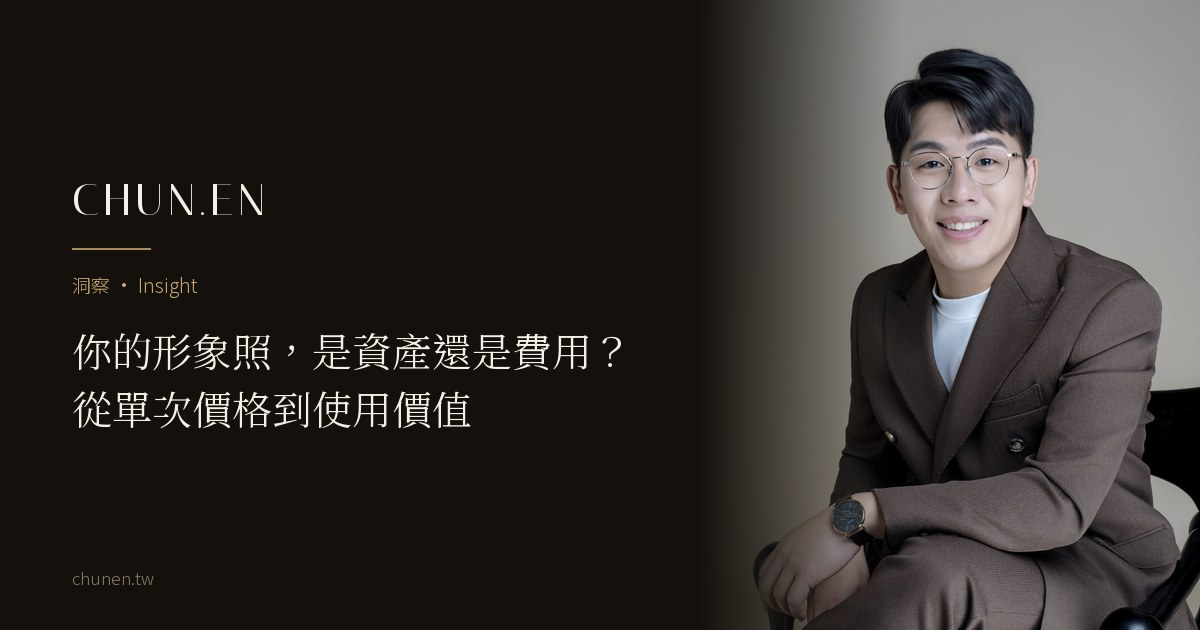
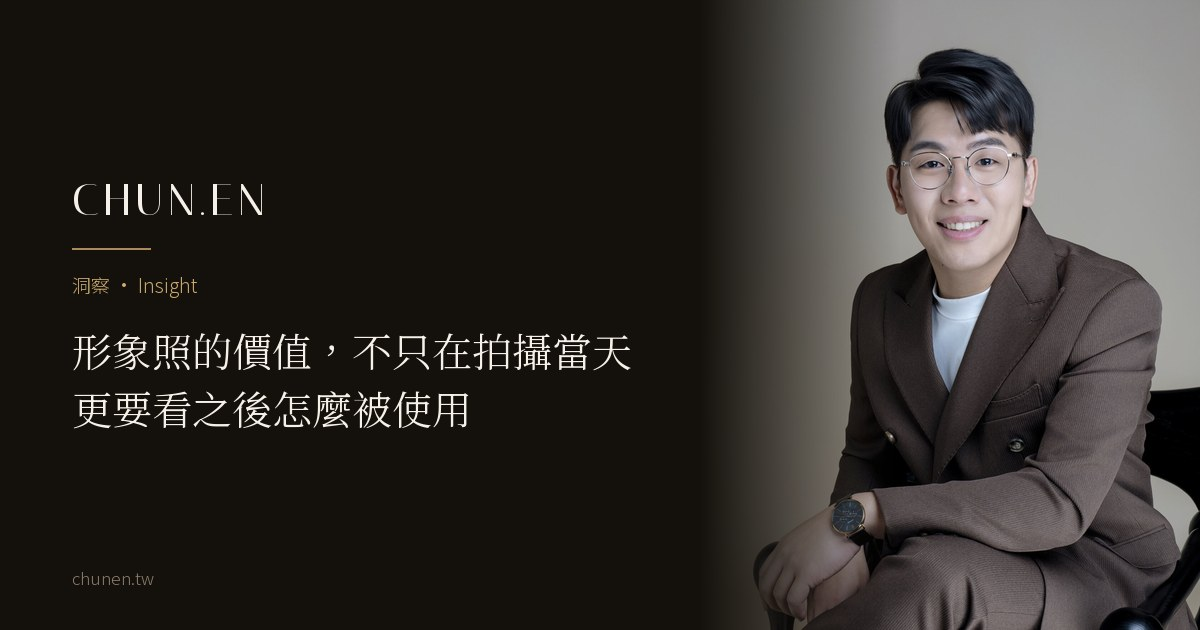
content(journal): image-asset 改寫成使用價值框架（user 版開場＋混合版全文）
資產／費用框架退場。它撐不住的證據是連補三輪：刪攤提、加「這是比喻不是
會計科目」聲明、換算法改換角度、標題補「照」字。換框架之後那些補丁全部
不需要存在。

H1「形象照的價值，不只在拍攝當天／更要看之後怎麼被使用」（title／og／
twitter／Article／Breadcrumb＋兩篇錨文字＋og 卡同步）。

採納 user 改寫版：開場四段（平台名從條件句移到例子裡）、使用期限改六項
落差清單、新增「價格差異來自服務範圍不同」整節（接 why-prices-differ）、
新增 FAQ「拍得越多張會比較值得嗎」、收尾四問。

保留現行版：Tom Peters 具名引用（接語改「門面」不再推導成資產）、使用
位置表格的觀點欄位、金句 blockquote（重寫一句承接新框架）。

避開重疊：不收「同一張照片不一定適合所有地方」整節與「不同平台要不要用
同一張」FAQ，兩者都是 portrait-deployment-map 的地盤，改以內鏈帶過。

FAQ 3→4 題、schema 同步逐題比對、dateModified 07-18→08-12、
字數 4070→4944、閱讀 5→7 分鐘。

Changed region(s): [[0.0617, 0.5127, 0.5242, 0.6937]]

diff --git a/journal/image-asset-or-expense.html b/journal/image-asset-or-expense.html
@@ -4,15 +4,15 @@
   <meta charset="UTF-8" />
   <meta name="viewport" content="width=device-width, initial-scale=1.0, viewport-fit=cover" />
   <meta name="robots" content="noindex" /><!-- 草稿：Kay 審核後移除此行＋掛列表頁＋入 sitemap -->
-  <title>你的形象照，是資產還是費用？從單次價格到使用價值｜CHUN.EN 觀點</title>
-  <meta name="description" content="一組形象照值不值得，不只看拍攝當天的價格。從官網、名片、提案與媒體這些實際用得到的位置，重新評估一組照片的使用範圍、更新時機，以及什麼情況下它其實是閒置的。" />
+  <title>形象照的價值，不只在拍攝當天：更要看之後怎麼被使用｜CHUN.EN 觀點</title>
+  <meta name="description" content="一組形象照值不值得，不只看拍攝當天的價格。從官網、LinkedIn、簡報與媒體這些實際用得到的位置，談照片的使用期限怎麼判斷、價格差異來自哪裡，以及怎麼提高一組照片的實際使用價值。" />
   <meta name="theme-color" content="#14100B" />
   <link rel="icon" href="/favicon.ico" sizes="48x48" />
   <link rel="icon" href="/favicon-32.png" type="image/png" sizes="32x32" />
   <link rel="apple-touch-icon" href="/apple-touch-icon.png" />
   <link rel="canonical" href="https://chunen.tw/journal/image-asset-or-expense.html" />
-  <meta property="og:title" content="你的形象照，是資產還是費用？從單次價格到使用價值" />
-  <meta property="og:description" content="費用思維問「這次要花多少」；資產思維問「它之後派得上多少用場」。" />
+  <meta property="og:title" content="形象照的價值，不只在拍攝當天：更要看之後怎麼被使用" />
+  <meta property="og:description" content="一組照片值不值得，不在交付了幾張，在需要它的時候，手上有沒有適合的那一張。" />
   <meta property="og:image" content="https://chunen.tw/assets/og/image-asset-or-expense-og.jpg" />
   <meta property="og:image:width" content="1200" />
   <meta property="og:image:height" content="630" />
@@ -20,8 +20,8 @@
   <meta property="og:type" content="article" />
   <meta property="og:locale" content="zh_TW" />
   <meta name="twitter:card" content="summary_large_image" />
-  <meta name="twitter:title" content="你的形象照，是資產還是費用？從單次價格到使用價值" />
-  <meta name="twitter:description" content="費用思維問「這次要花多少」；資產思維問「它之後派得上多少用場」。" />
+  <meta name="twitter:title" content="形象照的價值，不只在拍攝當天：更要看之後怎麼被使用" />
+  <meta name="twitter:description" content="一組照片值不值得，不在交付了幾張，在需要它的時候，手上有沒有適合的那一張。" />
   <meta name="twitter:image" content="https://chunen.tw/assets/og/image-asset-or-expense-og.jpg" />
   <link rel="preconnect" href="https://fonts.googleapis.com" />
   <link rel="preconnect" href="https://fonts.gstatic.com" crossorigin />
@@ -70,8 +70,8 @@
     <header style="padding: clamp(9rem, 16vh, 11rem) 0 clamp(2rem, 4vh, 3rem);">
       <div class="wrap article-wrap">
         <p class="hero-eyebrow rv">洞察 · Insight</p>
-        <h1 class="rv rv-d1" style="font-weight: 300; font-size: clamp(1.9rem, 4.4vw, 3.2rem); line-height: 1.4; margin-top: 1rem;"><span style="white-space:nowrap;">你的形象照，</span><span style="white-space:nowrap;">是資產還是費用？</span><br>從單次價格到<em style="font-style:normal;color:var(--gold-light);">使用價值</em></h1>
-        <p class="article-meta rv rv-d2">CHUN.EN 觀點 · 2026 · 閱讀約 5 分鐘</p>
+        <h1 class="rv rv-d1" style="font-weight: 300; font-size: clamp(1.9rem, 4.4vw, 3.2rem); line-height: 1.4; margin-top: 1rem;"><span style="white-space:nowrap;">形象照的價值，</span><span style="white-space:nowrap;">不只在拍攝當天</span><br><span style="white-space:nowrap;">更要看之後<em style="font-style:normal;color:var(--gold-light);">怎麼被使用</em></span></h1>
+        <p class="article-meta rv rv-d2">CHUN.EN 觀點 · 2026 · 閱讀約 7 分鐘</p>
       </div>
     </header>
 
@@ -83,26 +83,27 @@
       <div class="keypoints rv">
         <p class="kp-t">In This Article · 本文重點</p>
         <ul>
-          <li>費用思維問「這次要花多少」；資產思維問「它之後派得上多少用場」</li>
-          <li>與其算每天幾塊，先看它能不能重複進入官網、社群、簡報與媒體</li>
-          <li>最貴的不是拍貴的，是拍了不敢用的，閒置資產才是真正的浪費</li>
+          <li>評估一組形象照，不只看拍攝當天花多少，也要看它之後會被用在哪裡</li>
+          <li>照片沒有固定使用年限，真正要看的是它和現在的你、現在的工作有沒有落差</li>
+          <li>需要照片的時候，手上有沒有一張適合的版本，比交付幾張更重要</li>
         </ul>
       </div>
 
       <div class="article-body rv">
-        <p class="article-lead">「拍一組形象照，多少錢才合理？」</p>
-        <p>大多數人都從價格開始評估，這很合理。但同樣一組照片，有人拍完只換了一次頭像，也有人接下來幾年一直在用：官網、名片、提案、媒體上都是它。花的錢一樣，用出來的價值差很多。</p>
-        <p>所以這篇想換一種算法：不只問「這次要花多少」，也問「它之後派得上多少用場」。這裡的「資產」是個比喻，說的是你怎麼看待這組照片，不是會計帳上的科目。</p>
+        <p class="article-lead">「拍一組形象照，大概要花多少錢？」</p>
+        <p>這通常是大家最先問的問題。</p>
+        <p>但照片拍完之後，真正影響使用的，往往不是當初花了多少，而是之後每一次需要用照片時，手上有沒有適合的版本。</p>
+        <p>同樣一組照片，有的人拍完只換了頭像；有的人之後做官網、簡報、媒體、講師介紹時，都能直接找到適合的照片使用。<strong>差別不在用了幾次，而是這組照片有沒有跟上真正的使用需求。</strong></p>
 
         <h2>個人品牌是一門<em>老生意</em></h2>
         <p>「把自己當品牌經營」不是社群時代的新發明。管理學者 Tom Peters 早在 1997 年就於《Fast Company》發表〈The Brand Called You〉（<a href="https://www.fastcompany.com/28905/brand-called-you" target="_blank" rel="noopener">原文連結</a>），主張每個專業工作者其實都是「自己這家公司」的執行長，重要的是讓自己「被指名」而不是被取代。</p>
-        <p>把這個視角接回來：如果你是「你自己」這家公司的 CEO，那你的對外形象就是這家公司的門面。門面值不值得，要看它接下來被放在哪些位置、還能用多久，而不只是單次開銷。</p>
+        <p>把這個視角接回來：你的對外形象，就是這家公司的門面。門面值不值得，不在裝修那天花了多少，在它之後被多少人看見、又撐得住多久。</p>
 
-        <h2>與其算每天幾塊，先看它<em>能不能重複使用</em></h2>
-        <p>資產的價值不在購入價，在使用率。試著把你的形象照攤在這張表上看：</p>
+        <h2>真正值得看的，是照片<em>之後怎麼被使用</em></h2>
+        <p>形象照不是「拍完、交件」就結束。它會在很長一段時間裡，陸續出現在不同地方。</p>
         <div class="tbl-scroll">
         <table>
-          <thead><tr><th>部署位置</th><th>工作頻率</th><th>它替你做的事</th></tr></thead>
+          <thead><tr><th>使用位置</th><th>出現頻率</th><th>它替你做的事</th></tr></thead>
           <tbody>
             <tr><td>官網／關於我</td><td>每一次被 Google 的時刻</td><td>讓第一次搜尋到你的人，知道你是誰</td></tr>
             <tr><td>LinkedIn／社群</td><td>每天，被動曝光</td><td>讓不同平台看到的是同一個人</td></tr>
@@ -112,37 +113,56 @@
           </tbody>
         </table>
         </div>
-        <p>照片沒有固定的有效期限。我們的建議是每年快速檢視一次、兩到三年做一次完整檢查（見〈<a href="when-to-update-your-portrait.html">形象照多久該更新一次</a>〉），但要不要換，看的是落差，不是年份。所以與其把總價除以天數，<strong>更實際的是逐一問：官網人物頁有沒有能用的？LinkedIn 與公司資料適合嗎？簡報與媒體要的橫直版本在不在？需要更新的時候，是補一兩張就夠，還是角色已經整個不一樣了？</strong>這幾題的答案，比每天幾塊錢更能說明一組照片值不值得。</p>
-        <blockquote>費用思維問「這次要花多少」；資產思維問「它之後派得上多少用場」。</blockquote>
+        <p>所以一組照片值不值得，不只看交付了幾張。更實際的問題是：需要用的時候，它有沒有真的派上用場？</p>
+        <blockquote>一組照片值不值得，不在交付了幾張，在需要它的時候，手上有沒有適合的那一張。</blockquote>
 
-        <h2>最貴的照片，是<em>拍了不敢用的</em>那組</h2>
-        <p>反過來看，最不划算的不是貴的方案，是「便宜但閒置」的那組：拍完覺得不像自己、不敢放上官網、提案時還是塞舊照，購入價再低，使用率是零，等於什麼都沒有換到。這就是閒置資產。</p>
-        <p>而照片會閒置，原因不只一種：用途沒先盤點、構圖不適合版位、服裝方向不對、成品不像本人，也可能只是工作角色後來改變了。其中最難靠事後補救的一種，是<a href="positioning-decides-portrait.html">定位缺席</a>：沒想清楚要讓誰看見、以什麼角色，拍出來自然「好看但用不上」。這也解釋了<a href="why-prices-differ.html">價格差十倍的形象照差在哪</a>：差異多半來自服務範圍，從快門之前的定位工作，到交付之後<a href="after-the-shoot.html">有沒有真的被用起來</a>。</p>
+        <h2>照片沒有<em>固定的使用期限</em></h2>
+        <p>一張形象照可以用多久，沒有統一答案。不是滿兩年就一定要換，也不是拍得好就能永遠用下去。比較實際的判斷方式是看落差：</p>
+        <ul>
+          <li>現在的外型和照片已經差很多</li>
+          <li>職稱或工作內容改變了</li>
+          <li>主要的對外角色和拍攝當時不同</li>
+          <li>原本的服裝和現在的正式程度不一致</li>
+          <li>現在常用的版位，手上的照片已經不適合</li>
+          <li>照片仍然像本人，只是缺少新的使用比例</li>
+        </ul>
+        <p>如果只是少了橫式、留白或某種人物距離，不一定要整組重拍，局部補拍往往就夠了。什麼時候該換整組，〈<a href="when-to-update-your-portrait.html">形象照多久該更新一次</a>〉談得更完整。</p>
+
+        <h2>真正不划算的，是需要照片時<em>找不到合適的版本</em></h2>
+        <p>拍完之後沒有被用上，不一定代表拍攝出了問題。</p>
+        <p>原因可能很多：當初沒有先盤點用途、構圖不適合現在的版位、服裝方向和工作需求有落差、成品不像本人，也可能只是後來的職位與公開角色改變了。其中最難靠事後補救的一種，是拍攝前沒有把主要受眾、角色與用途一起想清楚，那會拍出<a href="positioning-decides-portrait.html">好看但用不上</a>的照片。</p>
+        <p>也有一種更單純的情況：照片本身很好看，但真正要做官網、簡報或媒體資料時，始終找不到一張適合的。</p>
+        <p>所以「照片有沒有被用上」，不該只拿來判斷拍得好不好。它更像一個提醒：下一次拍攝之前，有沒有更清楚的使用需求可以先整理出來？照片為什麼會沒被用上，〈<a href="after-the-shoot.html">拍完形象照之後，為什麼很多照片最後沒有被用上？</a>〉談過四種常見原因。</p>
 
         <figure class="article-fig crop45">
           <img src="../assets/gallery/journal/image-asset-hero-v1-1400.jpg" alt="同一組拍攝中的另一張商務形象照，可用於官網與簡報版位" loading="lazy" />
           <figcaption>真正耐用的照片有一個特徵：過一段時間回頭看，它還像現在的你，也還放得進現在需要的版位。（CHUN.EN 實際拍攝作品）</figcaption>
         </figure>
 
-        <h2>怎麼把這筆投資<em>做成資產</em></h2>
-        <p>三個原則。</p>
-        <p>一、先定位再拍，資產的價值來自「用得上」，而用得上來自想清楚（<a href="../a-voir.html">À Voir</a> 做的就是這件事）。</p>
-        <p>二、先排最重要的版位，官網、社群、提案、媒體各要的版本，在拍攝規劃時就排進去，而不是拍完再將就；暫時用不到的，不必為了湊齊而拍。</p>
-        <p>三、定期盤點，照片和本人出現落差、角色升級時就該<a href="when-to-update-your-portrait.html">更新</a>。</p>
-        <p><strong>換個算法，問題就不只是「要花多少」，而是「它接下來還派得上多少用場」。</strong></p>
+        <h2>價格差異，很多時候來自<em>服務範圍不同</em></h2>
+        <p>形象照的價格差距很大，但比較價格時，只看「幾套服裝、交付幾張」通常不夠。</p>
+        <p>有些服務從拍攝開始，服裝與方向由客戶自己準備；有些會再加入拍攝前的需求確認、妝髮、服裝討論、構圖規劃，以及交件之後的影像應用。</p>
+        <p>這些沒有哪一種一定比較好。真正要先確認的是：<strong>你這次需要的，是完成一組照片，還是需要有人一起把拍攝前後的問題整理清楚？</strong>服務範圍不同，價格自然不同。所以比價之前，先把自己真正需要的內容看清楚，會比只比較張數準確。價差的細節，〈<a href="why-prices-differ.html">價格差十倍的形象照，到底差在哪</a>〉拆得更細。</p>
 
-        <h2>回頭看這組照片，<em>還在被使用嗎？</em></h2>
-        <p>回頭看你現在用的那張照片：它現在掛在哪些地方？還像現在的你嗎？職稱與角色還對嗎？需要放進簡報、媒體或官網的時候，有沒有適合的版本可以直接拿出來？</p>
-        <p>如果答案多半是肯定的，這組照片就還在替你工作；如果多數位置都沒有它的版本，下一次要補的可能不是張數，是規劃。</p>
+        <h2>怎麼提高一組照片的<em>實際使用價值</em></h2>
+        <p>不用先把所有未來需求一次想完，可以先從三件事開始。</p>
+        <p>一、先確認現在真正會用到的位置。列出目前最常用照片的幾個地方，例如官網、LinkedIn、簡報、講師介紹或媒體資料。如果某個平台你根本還沒開始經營，不需要為了「以後可能會用」先把素材拍齊。</p>
+        <p>二、把最重要的那幾個版位講清楚。先確認的版位，就能提早安排需要的構圖。各個平台各要什麼樣的照片，〈<a href="portrait-deployment-map.html">一組照片的部署地圖</a>〉整理成一張表。</p>
+        <p>三、過一段時間，再檢查有沒有落差。不用固定哪一年全部重拍。當外型、職稱、工作角色或主要使用位置明顯改變時，再決定要局部補拍，還是重新整理整組影像。</p>
+
+        <h2>回頭看<em>現在這組照片</em></h2>
+        <p>看看你現在正在用的那幾張。</p>
+        <p>它們出現在哪些地方？還像現在的你嗎？職稱與工作內容還正確嗎？臨時需要做一份簡報、提供媒體資料，或更新官網人物頁的時候，有沒有一張適合的版本可以直接拿出來？</p>
+        <p>如果多數情況都找得到合適的照片，這組影像就仍然有實際的使用價值。如果每次都要重新翻很久、勉強裁切，最後還是回去用舊的那張，那下一次真正要處理的，可能不是多拍幾張，而是先把現在真正需要照片的地方整理清楚。</p>
+        <p><strong>形象照的價值，不只在拍攝當天。更重要的是，之後需要它的時候，它還能不能好好被使用。</strong></p>
 
         <h2>常見<em>問題</em></h2>
         <div class="faq">
-          <details><summary>預算真的有限，怎麼開始？<span class="mark">+</span></summary><div class="a">先縮小這次要處理的範圍：確認目前最常被看見的是哪兩三個位置，例如官網人物頁與 LinkedIn，把這幾個版位的核心照片做好，之後有演講、媒體或其他需求再分階段補拍。小而用得上，勝過大而閒置。</div></details>
-          <details><summary>照片可以用幾年？什麼時候該重拍？<span class="mark">+</span></summary><div class="a">沒有固定年限。建議每年快速檢視一次、兩到三年做一次完整檢查，但那是檢視節奏，不是有效期限。真正的判準是落差：外型改變、角色升級、或照片風格已經跟不上你的市場定位時，就是重拍的訊號。</div></details>
-          <details><summary>公司會補助拍攝嗎？這算誰的資產？<span class="mark">+</span></summary><div class="a">有些企業會把主管與團隊形象列入僱主品牌或行銷預算，可以先向公司確認。至於照片屬於誰，不能只看畫面裡是誰：由公司安排的主管或團隊拍攝，使用範圍、著作權、肖像授權，以及離職之後還能不能繼續使用，都以合約或公司規範為準，建議在拍攝前就問清楚。</div></details>
+          <details><summary>預算有限，形象照可以怎麼開始？<span class="mark">+</span></summary><div class="a">先從目前最常被看見的地方開始。如果現在主要需要的是官網人物頁與 LinkedIn，就先完成這兩個位置需要的核心照片；之後真的出現演講、媒體或其他需求，再分階段補拍。不需要第一次就把所有未來可能用到的素材準備完成。</div></details>
+          <details><summary>形象照可以用幾年？什麼時候需要更新？<span class="mark">+</span></summary><div class="a">沒有固定年限。可以定期看看本人外型、職稱、主要角色、品牌方向，以及常用版位是否已經和照片出現明顯落差。如果只是缺少某些比例，可以局部補拍；如果本人與主要工作角色都已明顯改變，再考慮更新整組。</div></details>
+          <details><summary>拍得越多張，會比較值得嗎？<span class="mark">+</span></summary><div class="a">不一定。如果照片彼此非常接近，增加張數不會增加實際用途。反過來說，張數不多但能處理目前最重要的官網、人物頁、簡報與媒體需求，也可能已經足夠。比張數更值得看的，是需要照片時有沒有合適的版本。</div></details>
+          <details><summary>公司會補助拍攝嗎？這算誰的？<span class="mark">+</span></summary><div class="a">有些企業會把主管與團隊形象列入僱主品牌或行銷預算，可以先向公司確認。至於照片屬於誰，不能只看畫面裡是誰：由公司安排的主管或團隊拍攝，使用範圍、著作權、肖像授權，以及離職之後還能不能繼續使用，都以合約或公司規範為準，建議在拍攝前就問清楚。</div></details>
         </div>
-
-      </div>
 
       <div class="author-card rv">
         <picture>
@@ -187,13 +207,13 @@
   {
     "@context": "https://schema.org",
     "@type": "Article",
-    "headline": "你的形象照，是資產還是費用？從單次價格到使用價值",
-    "description": "一組形象照值不值得，不只看拍攝當天的價格，而看它能不能重複進入官網、社群、簡報與媒體這些真正需要的位置，以及什麼時候該更新。",
+    "headline": "形象照的價值，不只在拍攝當天：更要看之後怎麼被使用",
+    "description": "一組形象照值不值得，不只看拍攝當天的價格，而看它能不能持續進入官網、社群、簡報與媒體，以及什麼時候該更新。",
     "image": "https://chunen.tw/assets/gallery/journal/image-asset-hero-v1-1400.jpg",
     "author": {"@type": "Person", "@id": "https://chunen.tw/author/zoey-wu.html#zoey", "name": "吳惇恩", "alternateName": "Zoey Wu", "jobTitle": "Founder & Brand Director", "image": "https://chunen.tw/assets/images/zoey-author-640.jpg", "url": "https://chunen.tw/author/zoey-wu.html"},
     "publisher": {"@type": "Organization", "name": "CHUN.EN 形象美學", "logo": {"@type": "ImageObject", "url": "https://chunen.tw/icon-512.png"}},
     "datePublished": "2026-07-18",
-    "dateModified": "2026-07-18",
+    "dateModified": "2026-08-12",
     "mainEntityOfPage": "https://chunen.tw/journal/image-asset-or-expense.html"
   }
   </script>
@@ -205,9 +225,10 @@
     "@context": "https://schema.org",
     "@type": "FAQPage",
     "mainEntity": [
-      {"@type": "Question", "name": "預算真的有限，怎麼開始？", "acceptedAnswer": {"@type": "Answer", "text": "先縮小這次要處理的範圍：確認目前最常被看見的是哪兩三個位置，例如官網人物頁與 LinkedIn，把這幾個版位的核心照片做好，之後有演講、媒體或其他需求再分階段補拍。小而用得上，勝過大而閒置。"}},
-      {"@type": "Question", "name": "照片可以用幾年？什麼時候該重拍？", "acceptedAnswer": {"@type": "Answer", "text": "沒有固定年限。建議每年快速檢視一次、兩到三年做一次完整檢查，但那是檢視節奏，不是有效期限。真正的判準是落差：外型改變、角色升級、或照片風格已經跟不上你的市場定位時，就是重拍的訊號。"}},
-      {"@type": "Question", "name": "公司會補助拍攝嗎？這算誰的資產？", "acceptedAnswer": {"@type": "Answer", "text": "有些企業會把主管與團隊形象列入僱主品牌或行銷預算，可以先向公司確認。至於照片屬於誰，不能只看畫面裡是誰：由公司安排的主管或團隊拍攝，使用範圍、著作權、肖像授權，以及離職之後還能不能繼續使用，都以合約或公司規範為準，建議在拍攝前就問清楚。"}}
+      {"@type": "Question", "name": "預算有限，形象照可以怎麼開始？", "acceptedAnswer": {"@type": "Answer", "text": "先從目前最常被看見的地方開始。如果現在主要需要的是官網人物頁與 LinkedIn，就先完成這兩個位置需要的核心照片；之後真的出現演講、媒體或其他需求，再分階段補拍。不需要第一次就把所有未來可能用到的素材準備完成。"}},
+      {"@type": "Question", "name": "形象照可以用幾年？什麼時候需要更新？", "acceptedAnswer": {"@type": "Answer", "text": "沒有固定年限。可以定期看看本人外型、職稱、主要角色、品牌方向，以及常用版位是否已經和照片出現明顯落差。如果只是缺少某些比例，可以局部補拍；如果本人與主要工作角色都已明顯改變，再考慮更新整組。"}},
+      {"@type": "Question", "name": "拍得越多張，會比較值得嗎？", "acceptedAnswer": {"@type": "Answer", "text": "不一定。如果照片彼此非常接近，增加張數不會增加實際用途。反過來說，張數不多但能處理目前最重要的官網、人物頁、簡報與媒體需求，也可能已經足夠。比張數更值得看的，是需要照片時有沒有合適的版本。"}},
+      {"@type": "Question", "name": "公司會補助拍攝嗎？這算誰的？", "acceptedAnswer": {"@type": "Answer", "text": "有些企業會把主管與團隊形象列入僱主品牌或行銷預算，可以先向公司確認。至於照片屬於誰，不能只看畫面裡是誰：由公司安排的主管或團隊拍攝，使用範圍、著作權、肖像授權，以及離職之後還能不能繼續使用，都以合約或公司規範為準，建議在拍攝前就問清楚。"}}
     ]
   }
   </script>
@@ -232,7 +253,7 @@
       {
         "@type": "ListItem",
         "position": 3,
-        "name": "你的形象照，是資產還是費用？從單次價格到使用價值",
+        "name": "形象照的價值，不只在拍攝當天：更要看之後怎麼被使用",
         "item": "https://chunen.tw/journal/image-asset-or-expense.html"
       }
     ]

diff --git a/journal/founder-portrait-fundraising.html b/journal/founder-portrait-fundraising.html
@@ -115,7 +115,7 @@
         <p>這四行不是四個人設，是同一個你的四個切面，這正是〈<a href="which-version-of-you.html">要讓人看見哪一面</a>〉的命題。營運上的正確做法是一次企劃完成，變成一組可以按對象調度的資產，而不是每輪募資前臨時補一張。怎麼調度，見〈<a href="portrait-deployment-map.html">一組照片的部署地圖</a>〉。</p>
 
         <h2>把帳攤開算：這是全公司<em>單次成本最低</em>的信任資產</h2>
-        <p>新創的每一筆錢都該被拷問，所以我直接攤帳。一組專業的創辦人形象，使用場景至少包括：募資 deck 團隊頁、官網 About、LinkedIn、媒體採訪供圖、活動講者照、徵才頁，生命週期通常走完一整個募資階段，把使用場景一個個數過去，<strong>它幾乎是所有對外支出裡單次成本最低的一項</strong>。這筆帳的完整看法，見〈<a href="image-asset-or-expense.html">你的形象照，是資產還是費用</a>〉。</p>
+        <p>新創的每一筆錢都該被拷問，所以我直接攤帳。一組專業的創辦人形象，使用場景至少包括：募資 deck 團隊頁、官網 About、LinkedIn、媒體採訪供圖、活動講者照、徵才頁，生命週期通常走完一整個募資階段，把使用場景一個個數過去，<strong>它幾乎是所有對外支出裡單次成本最低的一項</strong>。這筆帳的完整看法，見〈<a href="image-asset-or-expense.html">形象照的價值，不只在拍攝當天</a>〉。</p>
         <p>反過來的帳更該算：一張不對的照片，會在每一次被搜尋、每一場簡報、每一篇報導裡重複折損你，省下的是一次拍攝費，付出的是整個募資期的訊號稅。順帶一提：如果需要管理形象的不只你一人，而是整個核心團隊，那是另一個量級的工程，走<a class="fl-m" href="../enterprise.html">企業合作</a>的做法更划算。</p>
 
         <figure class="article-fig crop45">
@@ -150,7 +150,7 @@
       <div class="related rv">
         <p class="related-t">相關閱讀 · Related</p>
         <a href="executive-presence-explained.html">Executive Presence：高階主管氣場，來自三種訊號的一致</a>
-        <a href="image-asset-or-expense.html">你的形象照，是資產還是費用？從單次價格到使用價值</a>
+        <a href="image-asset-or-expense.html">形象照的價值，不只在拍攝當天：更要看之後怎麼被使用</a>
         <a href="first-impression-research.html">第一印象真的只要 0.1 秒？研究說的是「形成很快」，不是「決定一切」</a>
       </div>
 

diff --git a/journal/portrait-deployment-map.html b/journal/portrait-deployment-map.html
@@ -156,7 +156,7 @@
       <div class="related rv">
         <p class="related-t">相關閱讀 · Related</p>
         <a href="after-the-shoot.html">拍完形象照之後，為什麼很多照片最後沒有被用上？</a>
-        <a href="image-asset-or-expense.html">你的形象照，是資產還是費用？從單次價格到使用價值</a>
+        <a href="image-asset-or-expense.html">形象照的價值，不只在拍攝當天：更要看之後怎麼被使用</a>
         <a href="portrait-vs-personal-brand.html">形象照 vs 個人品牌形象照，差在哪</a>
       </div>
 
